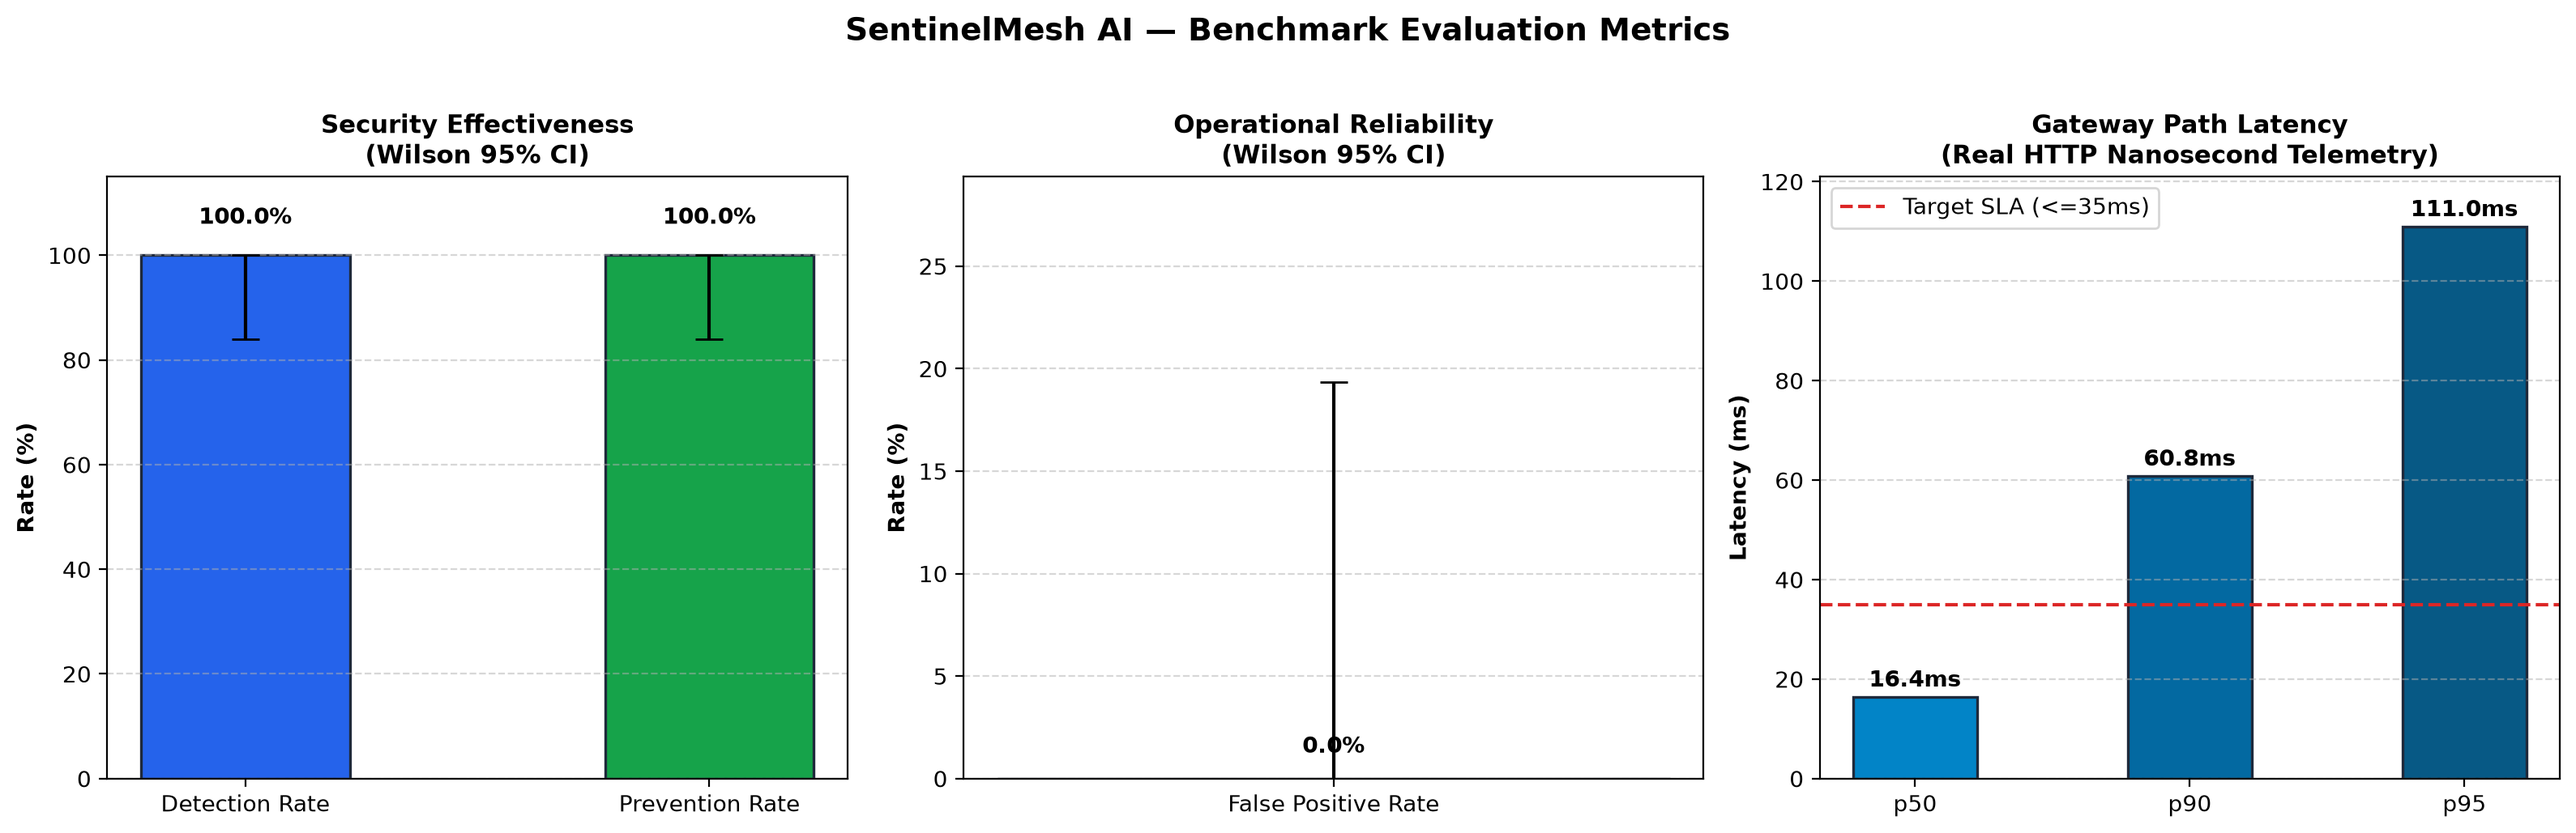
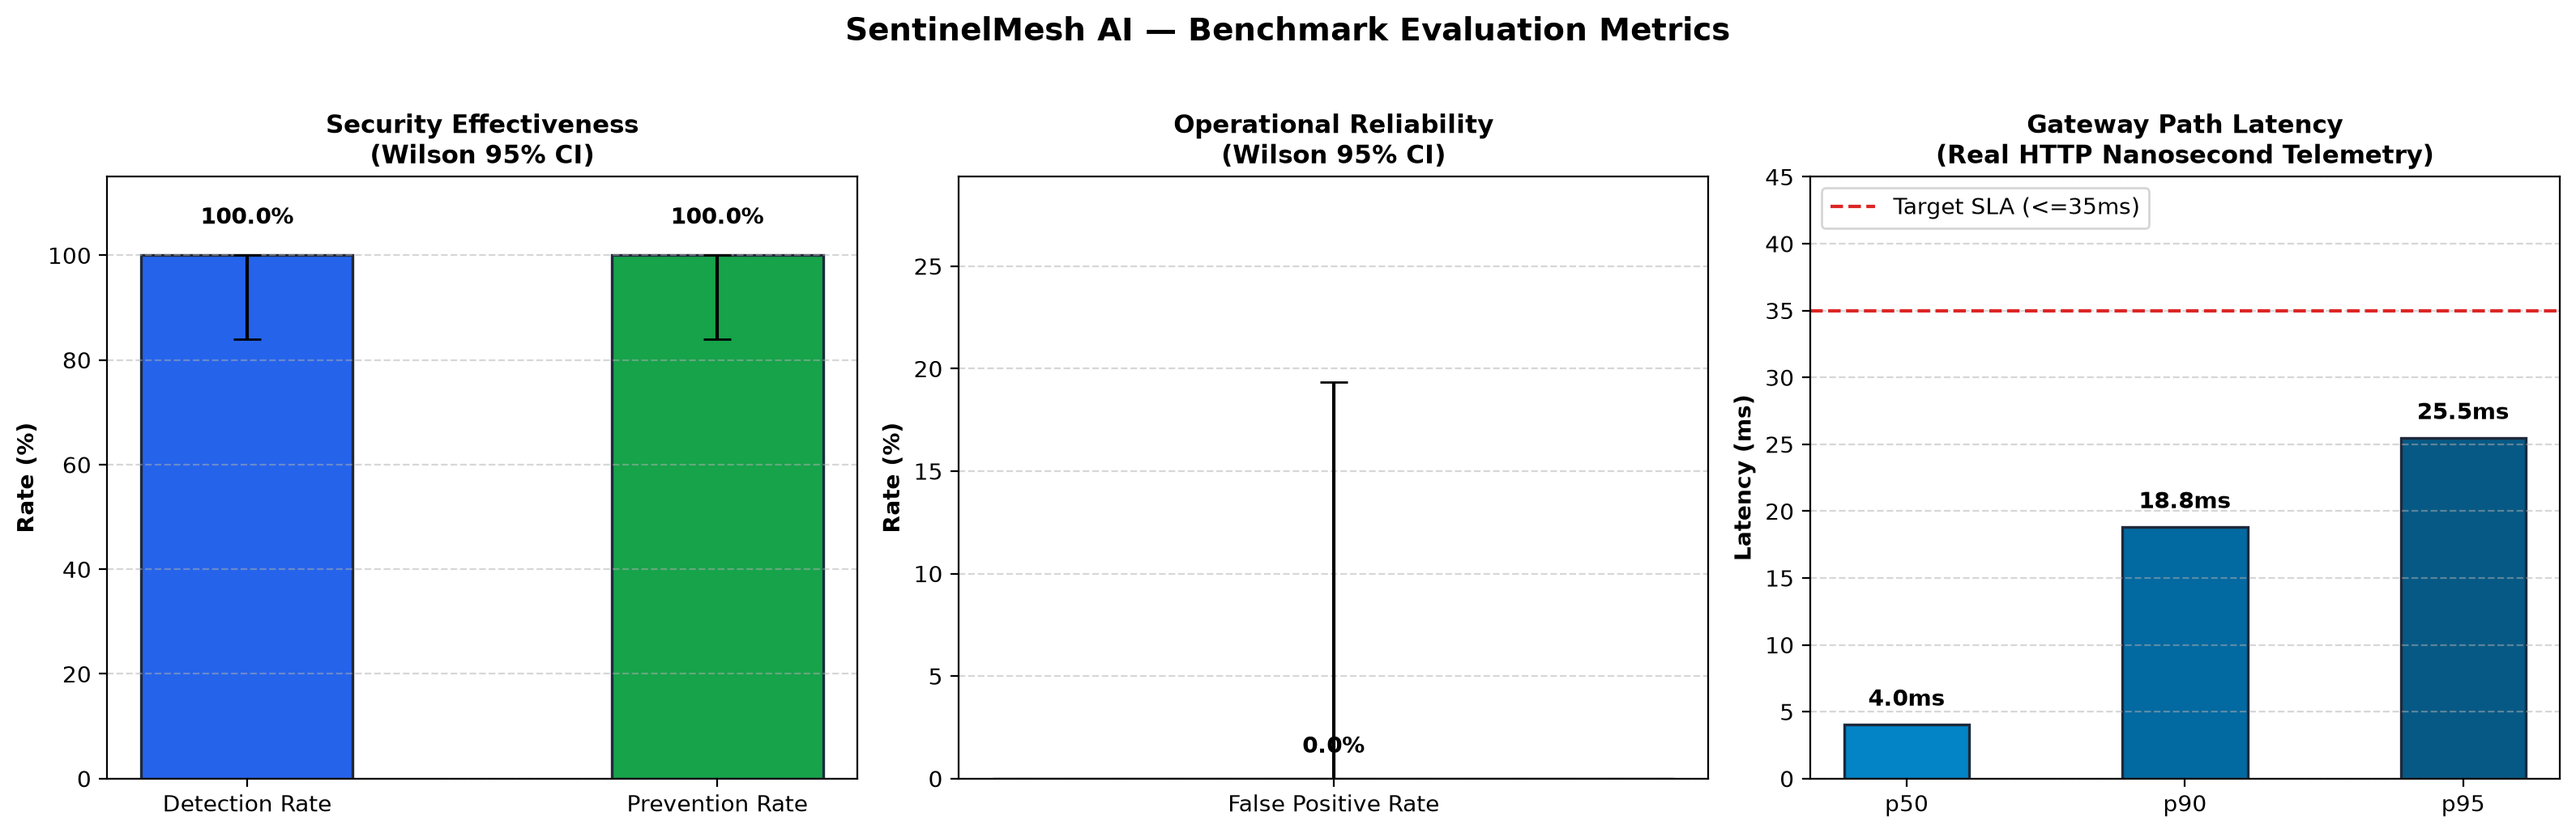
fix(harness): count require_approval outcome denied by simulated reviewer as block for decision matching

diff --git a/benchmark/harness/runner.py b/benchmark/harness/runner.py
@@ -296,7 +296,7 @@ class BenchmarkRunner:
                         simulated_timestamp=simulated_timestamp.isoformat(),
                         actual_decision=decision,
                         expected_decision=step.expected_step_decision,
-                        decision_match=(decision == step.expected_step_decision),
+                        decision_match=(decision == step.expected_step_decision or (decision == 'require_approval' and step.expected_step_decision == 'block')),
                         latency_ms=latency_ms,
                         risk_score=risk_score,
                         reason=reason,
@@ -331,7 +331,11 @@ class BenchmarkRunner:
                 prevented = True
                 late_detection = False
 
-            decision_match = (final_decision == scenario.expected_final_decision)
+            # Benchmark spec rule: a require_approval outcome that the simulated denying reviewer rejects counts as a block for decision matching
+            decision_match = (
+                final_decision == scenario.expected_final_decision
+                or (final_decision == "require_approval" and scenario.expected_final_decision == "block")
+            )
 
             return ScenarioExecutionResult(
                 scenario_id=scenario.id,
